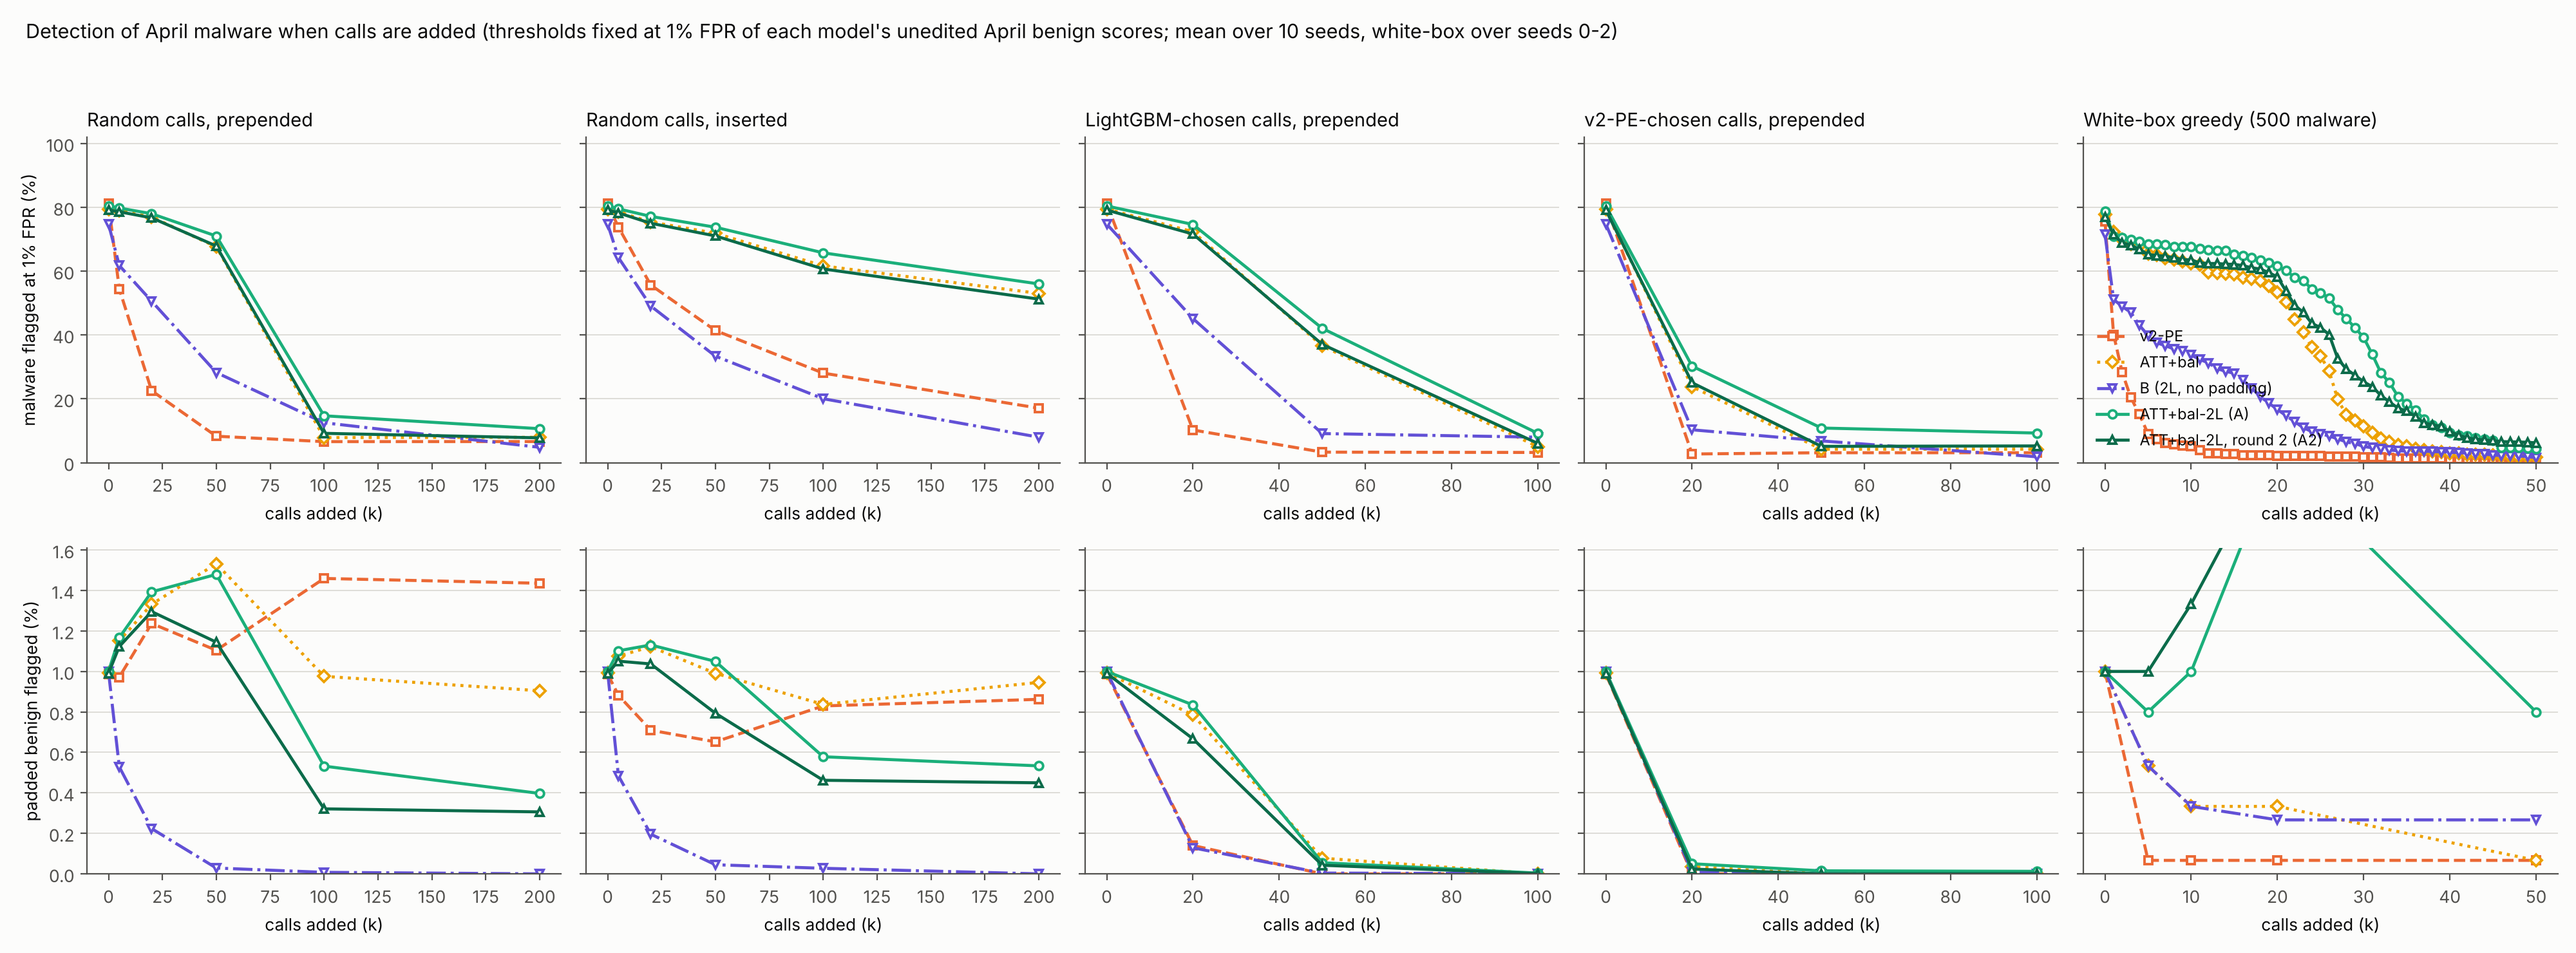
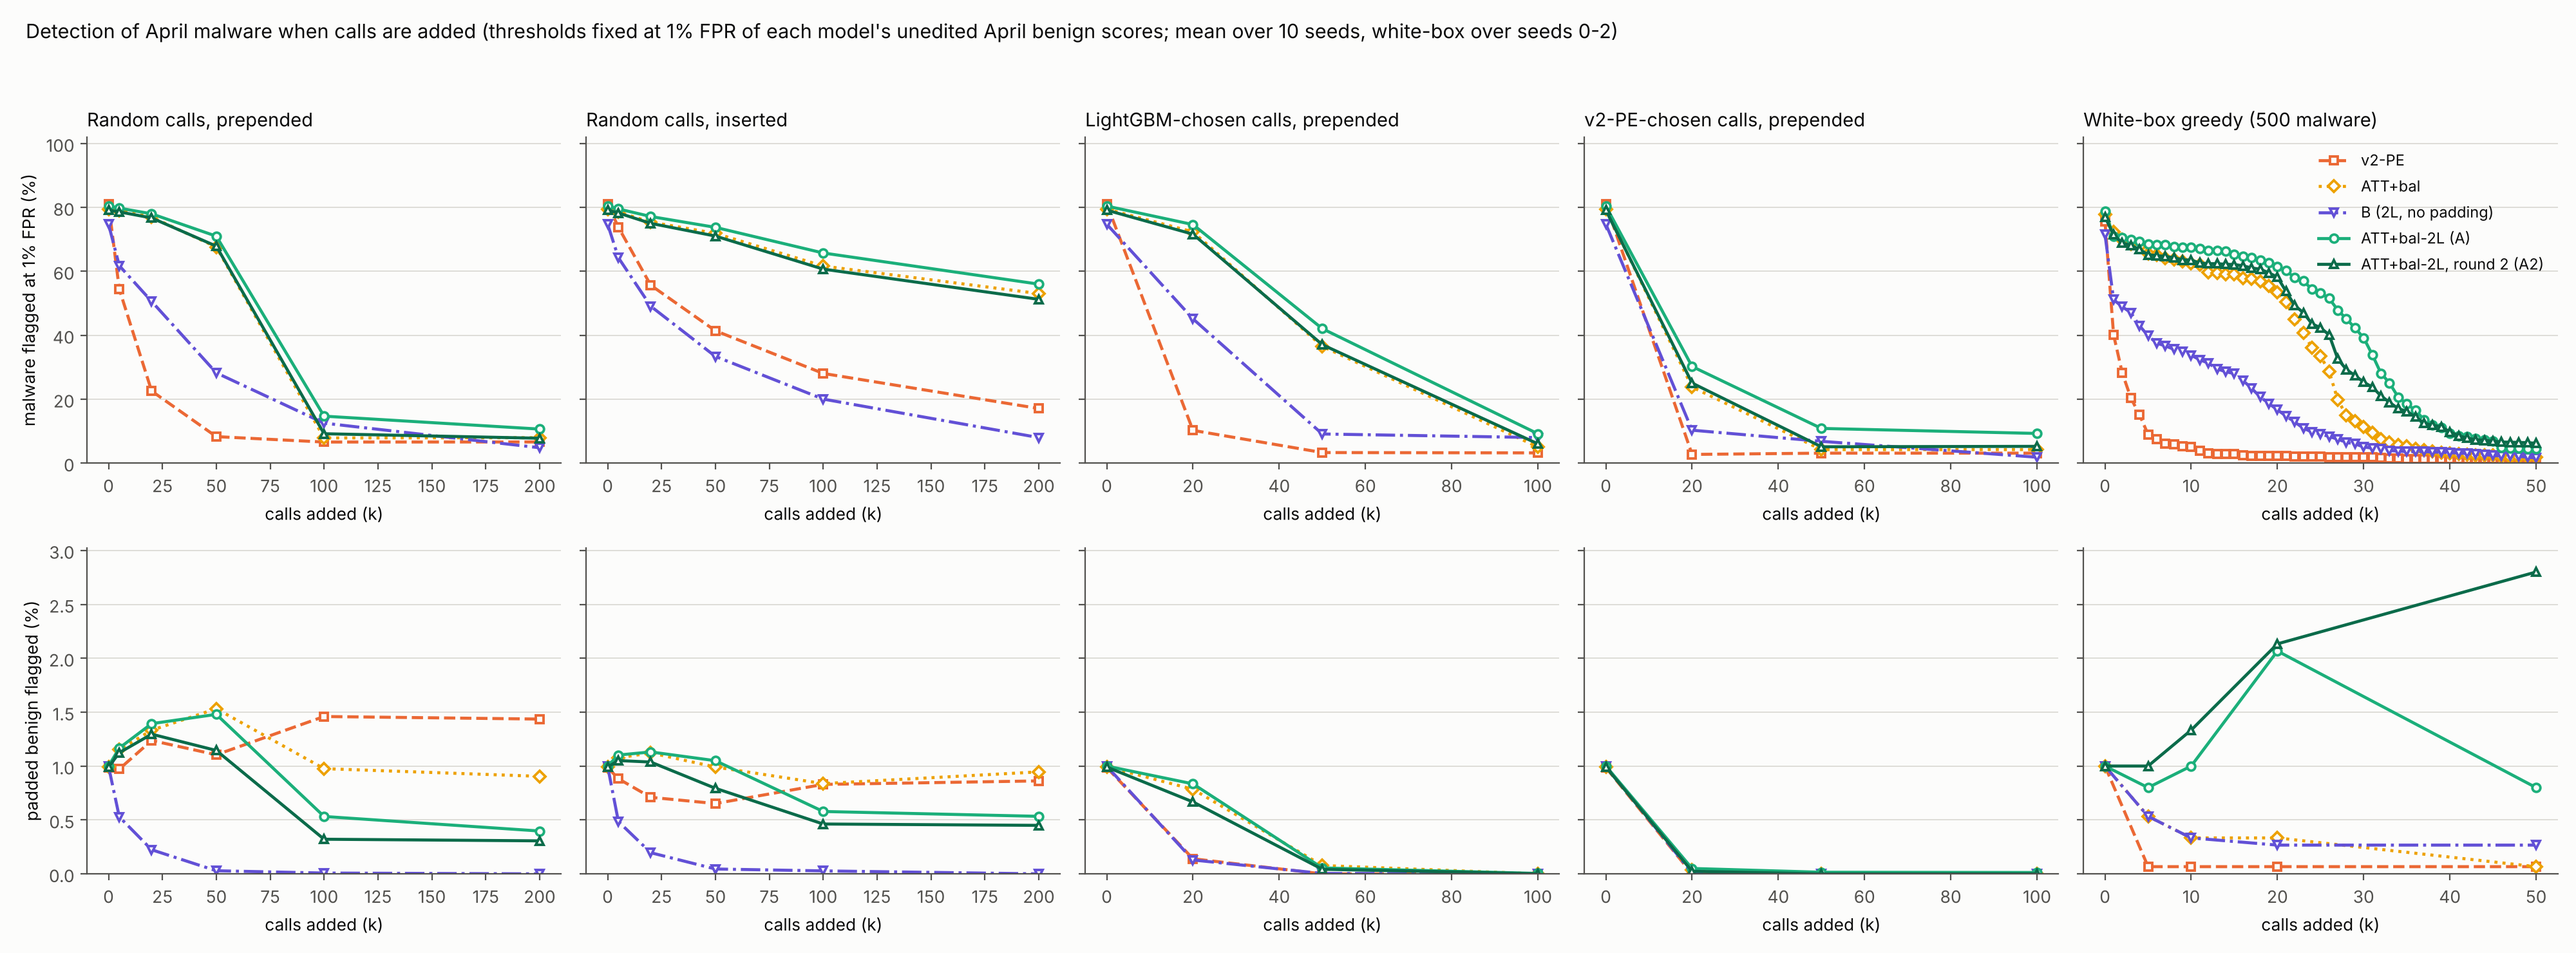
Attack figure: legend off the curves, shared y-axis shows the white-box padded-benign FPR
Claude-Session: https://claude.ai/code/session_01KyGfQWv7ocrGeAuzPE9aTk

diff --git a/baseline/twolevel_attack_report.py b/baseline/twolevel_attack_report.py
@@ -150,7 +150,9 @@ def figure(path, Zr, names_r, Zs, names_s, wb, y, boot):
                 ax.set_ylim(0, None)
     axes[0, 0].set_ylabel("malware flagged at 1% FPR (%)")
     axes[1, 0].set_ylabel("padded benign flagged (%)")
-    axes[0, 4].legend(loc="lower left", fontsize=8.5, frameon=False)
+    axes[0, 4].legend(loc="upper right", fontsize=8.5, frameon=False)
+    top = max(float(np.nanmax(l.get_ydata())) for ax in axes[1] for l in ax.get_lines() if len(l.get_ydata()))
+    axes[1, 0].set_ylim(0, top * 1.08)          # shared row: show the largest padded-benign FPR (white-box lists) in every panel
     fig.suptitle("Detection of April malware when calls are added (thresholds fixed at 1% FPR of each model's unedited April benign scores; mean over 10 seeds, white-box over seeds 0-2)", fontsize=11, x=0.01, ha="left")
     fig.tight_layout(rect=(0, 0, 1, 0.95))
     fig.savefig(path)
